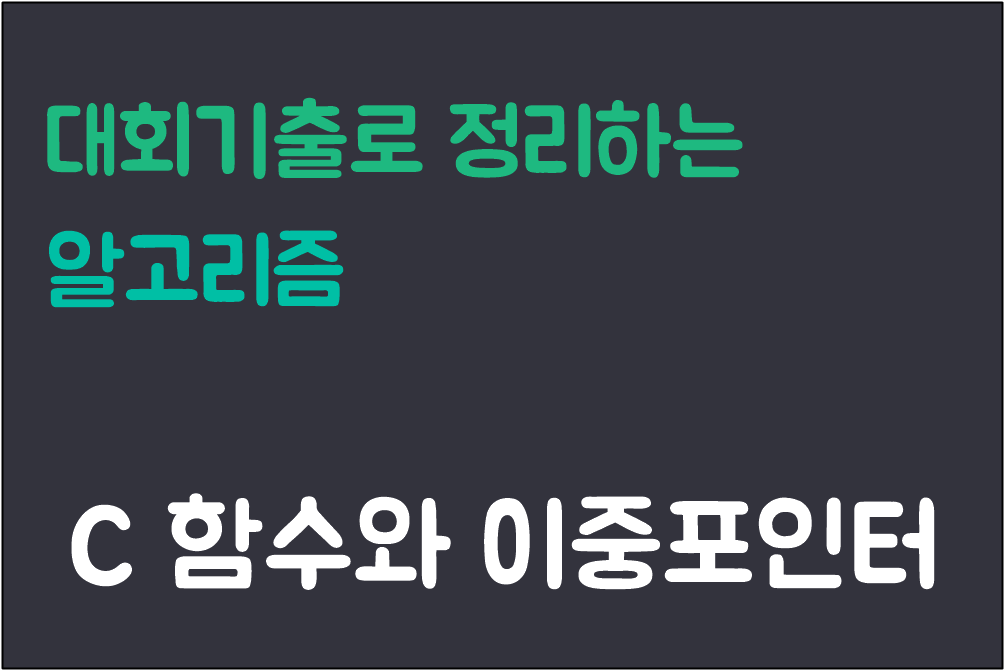
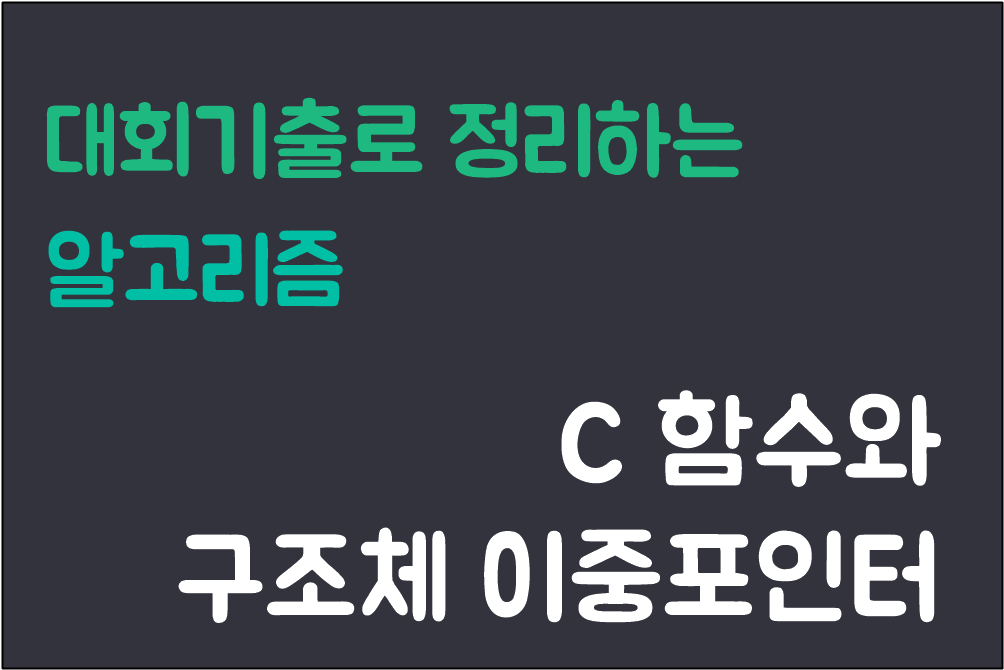
알고리즘 유형 재분류
l

Changed region(s): [[0.0618, 0.5672, 0.9572, 0.9552], [0.2161, 0.3582, 0.2779, 0.4478], [0.1853, 0.3881, 0.2161, 0.4478]]

diff --git a/_posts/2020-01-28-대회기출로-정리하는-알고리즘-시리즈-로드맵.md b/_posts/2020-01-28-대회기출로-정리하는-알고리즘-시리즈-로드맵.md
@@ -14,48 +14,72 @@ hidden: true
 
 ---
 
-## 언어에 익숙해지자!
+## 1. 언어에 익숙해지자!
 
 - [알고리즘 풀이 언어 선택에 대한 생각](https://cupjoo.github.io/알고리즘-풀이-언어-선택에-대한-생각)
 - [알고리즘 입출력, 이 정도만 준비하자](https://cupjoo.github.io/알고리즘-입출력-이-정도만-준비하자)
 - [Java Collections in 알고리즘](https://cupjoo.github.io/Java-Collections-in-알고리즘)
-- [C 함수와 이중 포인터 (지역성)](https://cupjoo.github.io/C-함수와-이중-포인터에-대한-개념-지역성)
+- [C 함수와 구조체 이중 포인터](https://cupjoo.github.io/C-함수와-구조체-이중-포인터)
 
-## 알고리즘 설계 패러다임
+## 2. 알고리즘 유형 공략
 
-- Brute Force
-- Divide and Conquer
-- Dynamic Programming
-- Greedy
-- 조합 탐색
+### 정렬과 탐색
 
-## 수학
+- Line Sweeping
+- Binary Search
 
-- 소수
-- 최대 공약수
-- 조합 / 순열
-- 큰 수 연산
-- 기하
-
-## 기초 자료구조 / 문자열
+### 자료구조 / 문자열
 
 - Stack / Queue
 - [Trie](https://cupjoo.github.io/Trie)
 - KMP
-- K
+- Z
+- Suffix Array
 
-## 트리 / 그래프
+### 동적 계획법
 
-- Tree
-- DFS / BFS
-- Binary Search Tree
-- Segment Tree
+- LIS (Longest Increasing Subsequence)
+
+### 트리
+
+- Tree Basic
+- Tree Query
+  - Fenwick Tree
+  - Segment Tree
+  - BST (Binary Search Tree)
+  - LCA (Lowest Common Ancestor)
+
+### 그래프
+
+- Graph Basic
+- Graph Traveresal
+  - DFS / BFS
 - Shortest Path
-- Minimum Spanning Tree (MST)
-- Network Flow
+  - Bellman-Ford Algorithm
+  - Dijkstra Algorithm
+  - Floyd-Warshall Algorithm
+- MST (Minimum Spanning Tree)
+  - Kruskal Algorithm
+  - Prim Algorithm
+- SCC (Strongly Connected Component)
+  - 2-SAT
+- Max Flow
+  - Ford-Fulkerson Algorithm
+  - Bipartite Matching
+  - Disjoint Set
 
-## 기타 알고리즘 기법
+### 수학
+
+- 정수론
+  - 소수
+  - 최대 공약수
+  - 거듭제곱과 나머지 연산
+- 조합론
+  - 이항 계수
+  - 행렬
+- Biginteger
+- 기하
+
+### 기타 알고리즘 기법
 
 - Two Pointer
-- 2-SAT
-- Line Sweeping

diff --git a/_posts/2020-02-04-C-함수와-구조체-이중-포인터.md b/_posts/2020-02-04-C-함수와-구조체-이중-포인터.md
@@ -1,6 +1,6 @@
 ---
 layout: post
-title: "C 함수와 이중 포인터에 대한 개념 (지역성)"
+title: "C 함수와 구조체 이중 포인터"
 author: cupjoo
 categories: [C]
 image: assets/images/2020-02-04/0.png

diff --git a/_posts/2020-02-08-프로그래머스-조이스틱.md b/_posts/2020-02-08-프로그래머스-조이스틱.md
@@ -1,6 +1,6 @@
 ---
 layout: post
-title: "조이스틱"
+title: "[프로그래머스] 조이스틱"
 author: cupjoo
 categories: [알고리즘 풀이]
 image: assets/images/2020-02-08/1.png
